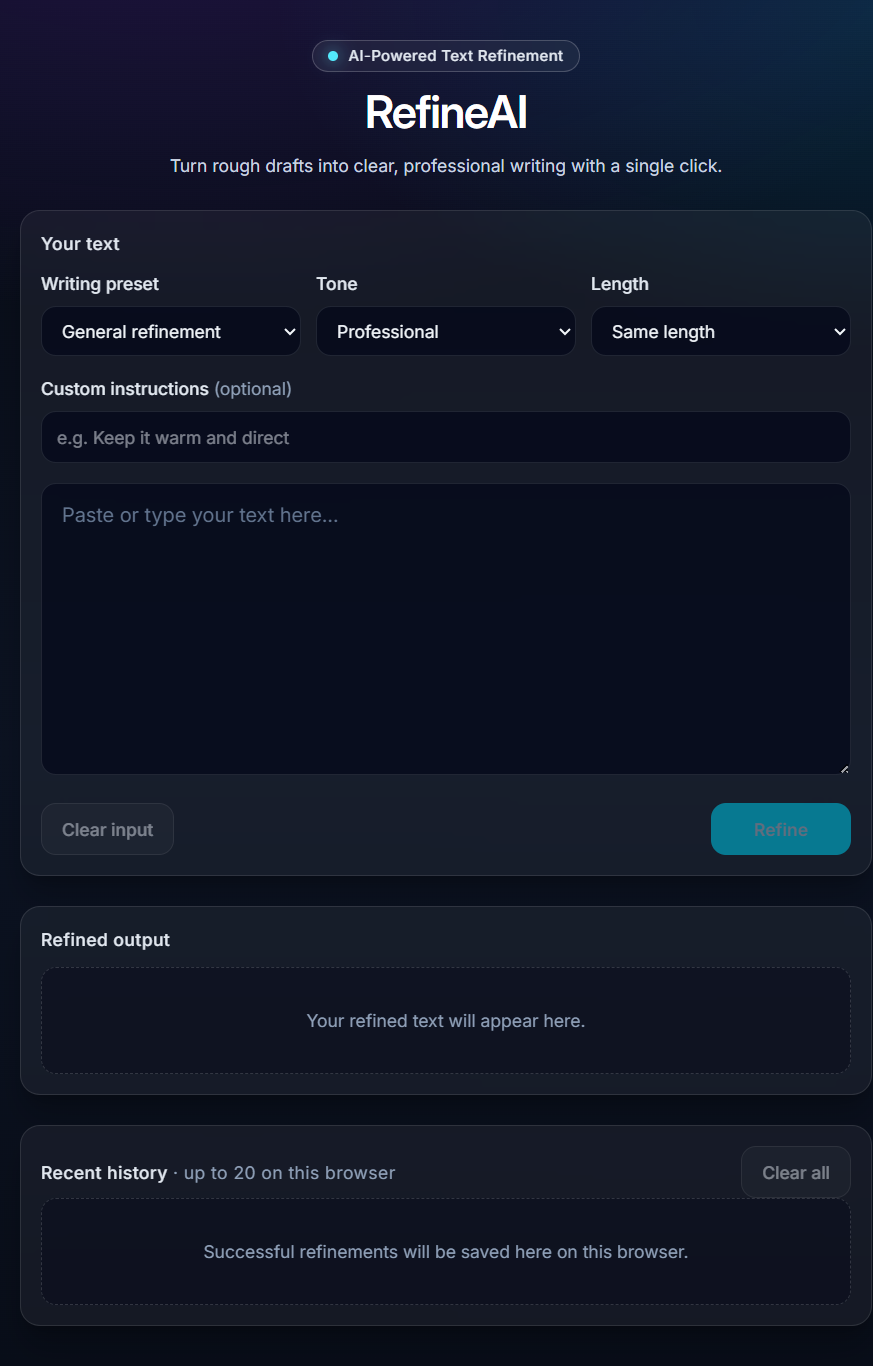
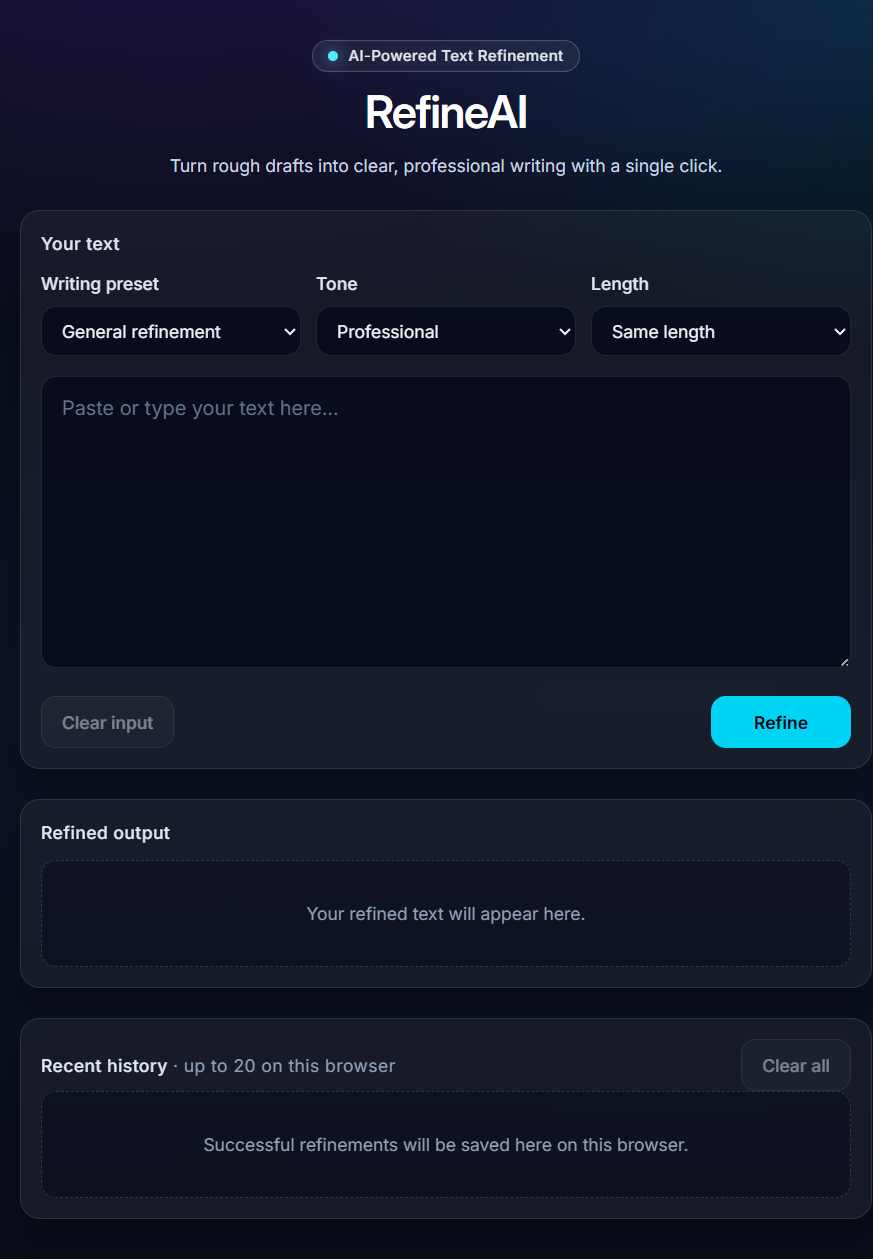
docs: remove custom instructions option

diff --git a/README.md b/README.md
@@ -11,7 +11,6 @@ RefineAI is an AI-powered writing assistant that transforms messy, informal text
 - Delivers a single, refined output  
 - Supports professional or friendly tone and same-length or shortened output
 - Includes email, professional message, resume, and academic writing presets
-- Accepts optional custom refinement instructions
 - Saves up to 20 successful refinements in this browser, with individual and clear-all deletion
 - Lets users clear the input and download refined text
 
@@ -24,8 +23,7 @@ The frontend sends refinement requests to `POST /api/groq/response` as JSON:
   "prompt": "The text to refine",
   "preset": "EMAIL",
   "tone": "PROFESSIONAL",
-  "length": "SAME_LENGTH",
-  "customInstructions": "Keep the greeting warm."
+  "length": "SAME_LENGTH"
 }
 ```
 
